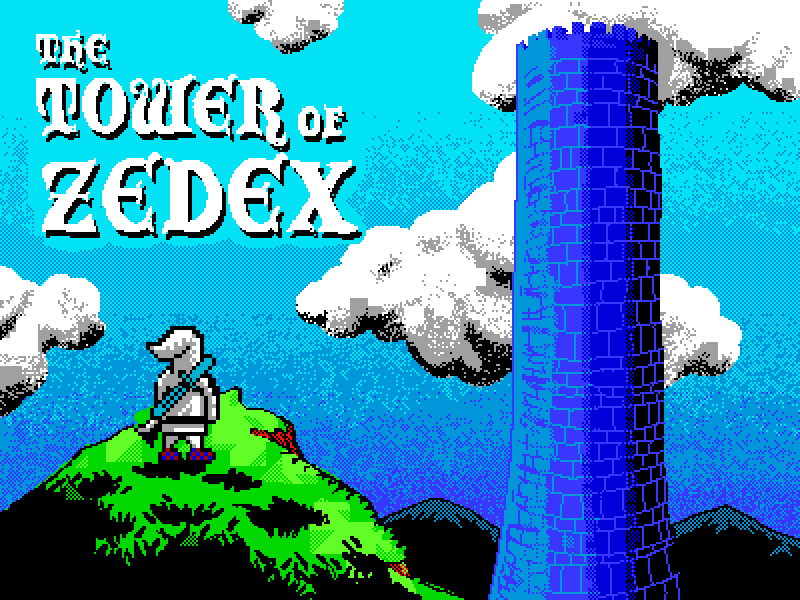
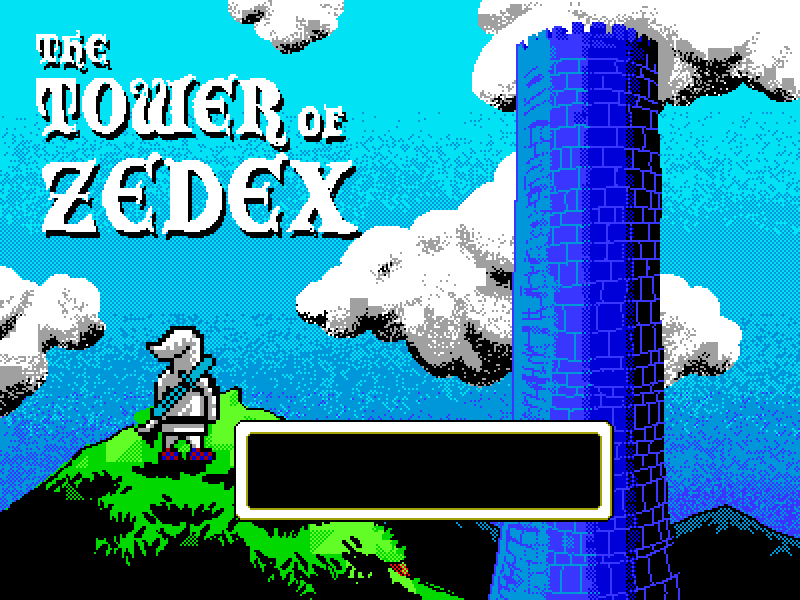
Added window for options; hooked up to game!

Changed region(s): [[0.2812, 0.69, 0.7812, 0.87], [0.0312, 0.24, 0.4688, 0.42], [0.4375, 0.27, 0.4688, 0.3]]

diff --git a/js/Main.js b/js/Main.js
@@ -112,9 +112,10 @@ function drawEverything() {
 		drawRoom();
 	} 
 	else if (TitleScreen){
-		printText(" The Tower of Zedex ", canvas.width/4, 300, 40, "white");
-		printText(" press -P- to Play ", canvas.width/4, 360, 16, "grey");
-		printText(" press -E- for Map Editing Mode ", canvas.width/4, 390, 16, "grey");
+		canvasContext.drawImage(titlescreen, 0,0 );
+		//printText(" The Tower of Zedex ", canvas.width/4, 300, 40, "white");
+		printText(" press -P- to Play ", 280, 460, 16, "white");
+		printText(" press -E- for Map Editing Mode ", 280, 488, 16, "white");
 		
 	} else {
 		drawRoom();

diff --git a/js/ImageLoading.js b/js/ImageLoading.js
@@ -1,3 +1,4 @@
+var titlescreen=document.createElement("img");
 var scanlineFilter=document.createElement("img");
 var gardenSpriteSheet=document.createElement("img");
 
@@ -65,6 +66,7 @@ function loadImageForTileCode(tileCode, fileName, locX, locY, width, height, off
 function loadImages() {
 
   	var imageList = [
+		{varName:titlescreen, theFile:"titlescreen-ttoz.png"},
 		{varName:scanlineFilter, theFile:"scanline-filter.png"},
 		{varName:gardenSpriteSheet, theFile:"GardenSpriteSheet.png"},
 		
